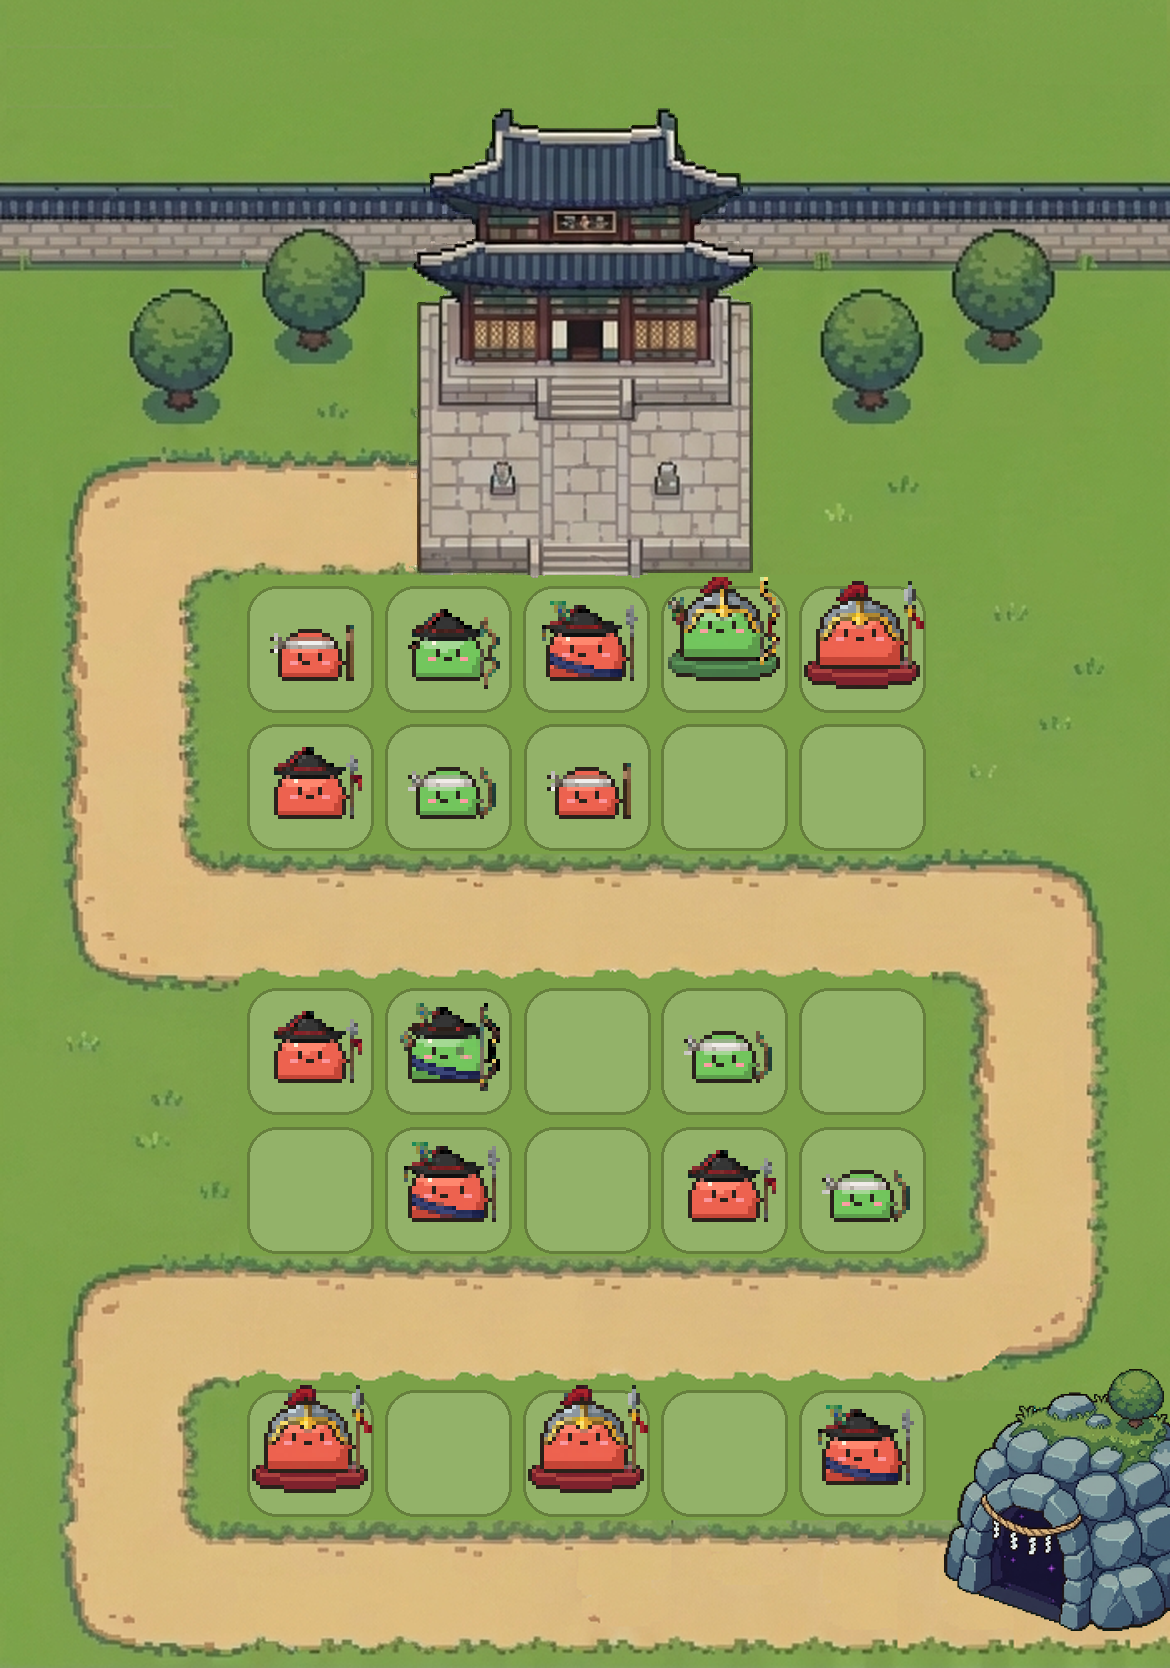
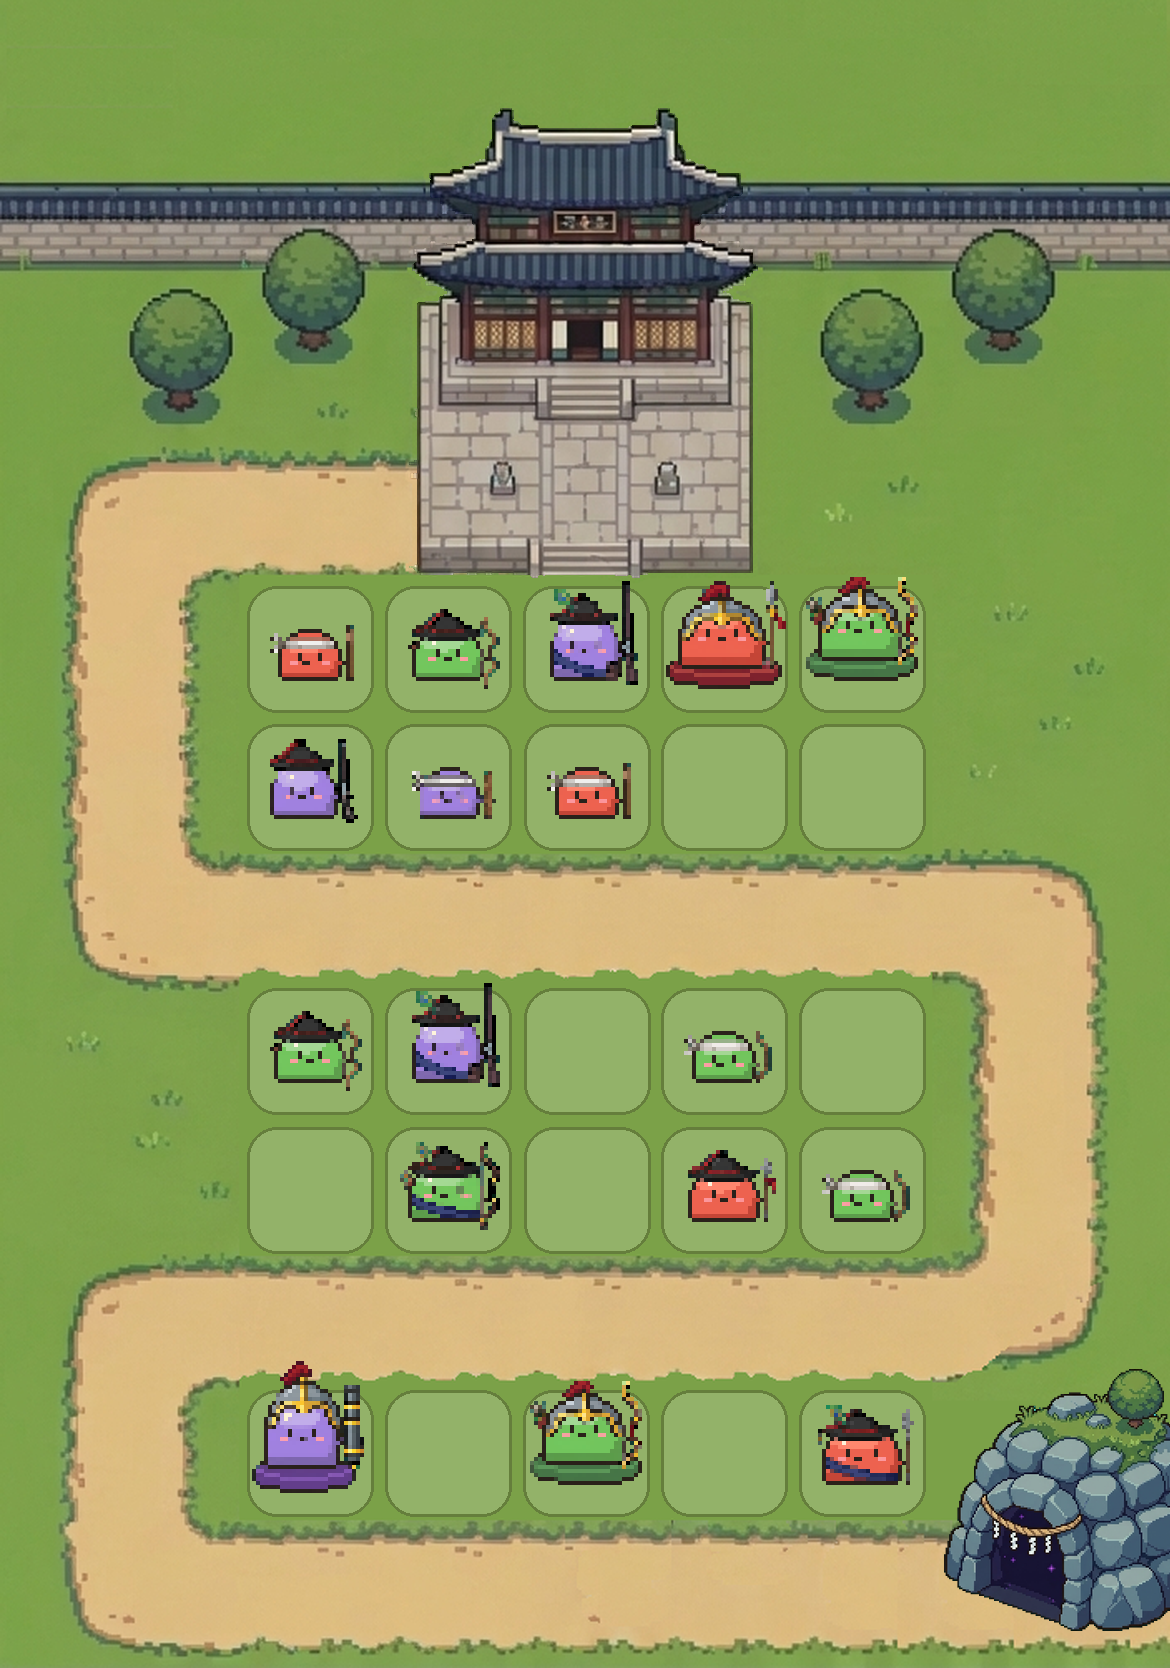
art: 도트 포수 슬라임 정리 + 세 병과 섞어 맵 미리보기 (크게 그린 그림은 군졸 몸 폭 기준으로 맞춤)
Claude-Session: https://claude.ai/code/session_01516Ff1ezD39vnqGwiHhyKB

diff --git a/art/tools/slime/snap_pixel_slime.py b/art/tools/slime/snap_pixel_slime.py
@@ -52,10 +52,30 @@ def find_grid(a):
     return p, best[2], score(Y, p, False)[1]
 
 
-def snap(path):
+def offsets(a, P):
+    """도트 크기 P가 정해졌을 때 격자 시작점만 찾기."""
+    h, w = a.shape[:2]
+    best = []
+    for horizontal, img in ((True, a[h // 10:h - h // 10].astype(float)), (False, a[:, w // 50:w - w // 50].astype(float))):
+        n = img.shape[1] if horizontal else img.shape[0]
+        b = None
+        for o in np.arange(0, P, 0.5):
+            xs = np.arange(o, n - P, P)
+            pick = (lambda f: img[:, (xs + P * f).astype(int)]) if horizontal else (lambda f: img[(xs + P * f).astype(int)])
+            c = pick(0.5)
+            v = np.abs(c - pick(0.12)).mean() + np.abs(c - pick(0.88)).mean()
+            if b is None or v < b[0]: b = (v, o)
+        best.append(b[1])
+    return best
+
+
+def snap(path, P=None):
     a = np.asarray(Image.open(path).convert('RGB')).astype(int)
     H, W = a.shape[:2]
-    P, OX, OY = find_grid(a)
+    if P is None:
+        P, OX, OY = find_grid(a)
+    else:
+        OX, OY = offsets(a, P)
     print('grid', P, OX, OY)
     xs = np.arange(OX - P, W, P); ys = np.arange(OY, H, P)
     out = np.zeros((len(ys), len(xs), 4), np.uint8)
@@ -115,9 +135,20 @@ def split(d, body_rgb):
     return parts
 
 
+RECRUIT_BODY = 14   # 견본의 군졸 몸 폭(도트). 제미나이가 크게 그렸으면 도트 크기를 다시 잡는다.
+
+
 def build(branch):
-    d = snap(os.path.join(ROOT, f'art/source/gemini/slime-pixel/{branch}-ranks-pixel.png'))
+    src = os.path.join(ROOT, f'art/source/gemini/slime-pixel/{branch}-ranks-pixel.png')
+    d = snap(src)
     parts = split(d, BODY[branch])
+    bw = parts[0][2]
+    if abs(bw - RECRUIT_BODY) > 1:
+        a = np.asarray(Image.open(src).convert('RGB'))
+        P0 = find_grid(a)[0]
+        print(f'{branch}: 군졸 몸 {bw}도트 → 도트 크기 {P0} × {bw}/{RECRUIT_BODY}로 다시')
+        d = snap(src, round(P0 * bw / RECRUIT_BODY, 2))
+        parts = split(d, BODY[branch])
     dots_dir = os.path.join(ROOT, 'art/source/gemini/slime-pixel/dots'); os.makedirs(dots_dir, exist_ok=True)
     sprites = []
     for (piece, foot, bw), rk in zip(parts, RANKS):
